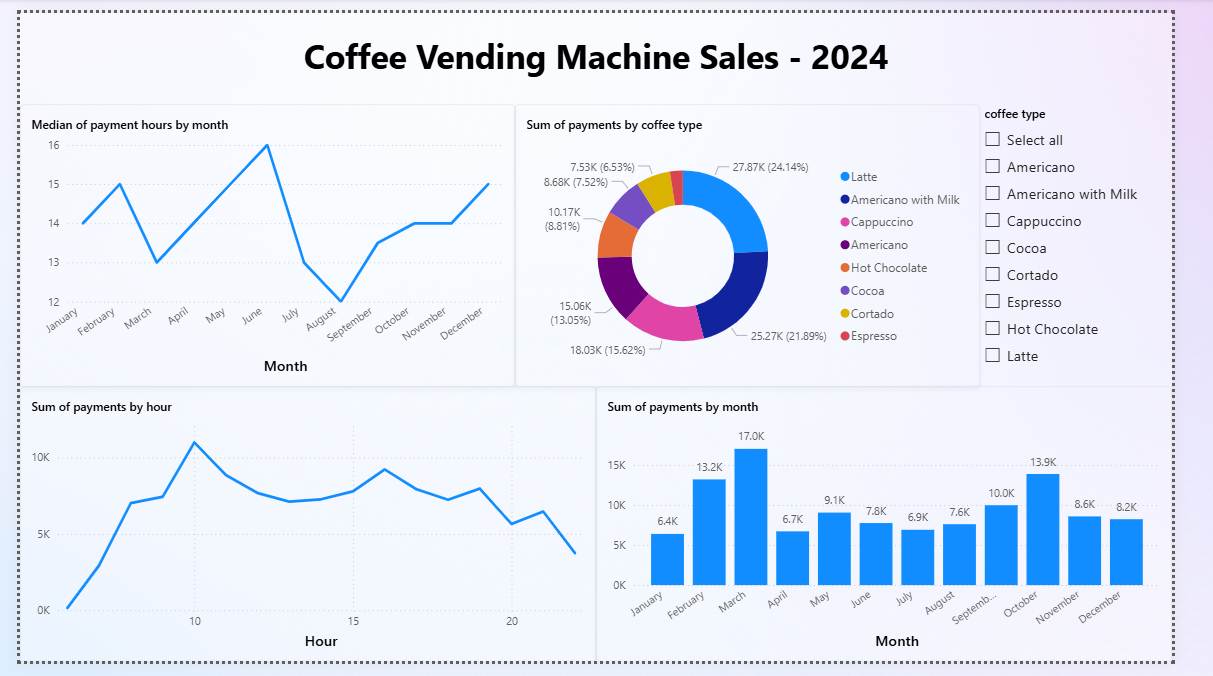
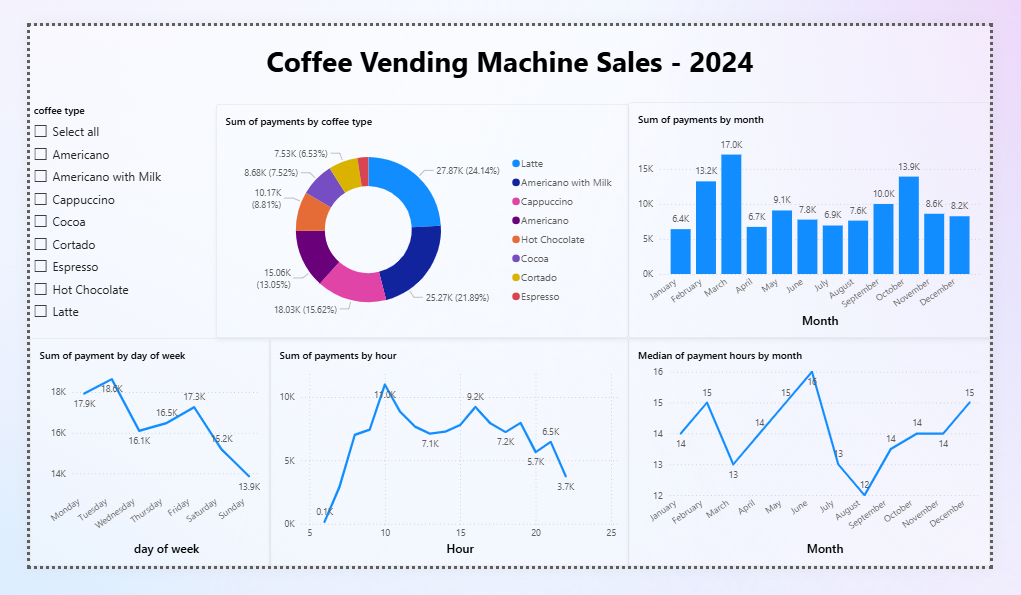
add weekdays analysis

diff --git a/README.md b/README.md
@@ -14,8 +14,9 @@ This project includes a Power BI report (`report.pbix`) for a coffee vending mac
 
 These are the business questions we are trying to respond to using this report:
 1. What are the most and least popular coffee drinks, and what are the most critical ingredients in the coffee vending machine?
-3. What is the best time to refill the vending machine? 
-4. What should our next marketing campaigns focus on?
+2. What is the best time to refill the vending machine? 
+3. What should our next marketing campaigns focus on?
+4. What days of week have the highest and lowest sales?
 
 ## Screenshots
 
@@ -24,6 +25,7 @@ The following is a screenshot of the report for all coffee types.
 <img src="screenshot-1.png" alt="all-coffee-report" width=700>
 
 The following is a screenshot of the report for espresso and americano only.
+
 
 <img src="screenshot-2.png" alt="espresso-americano-report" width=700>
 
@@ -58,6 +60,14 @@ It appears that overall, the median of payment time slots is highest in the warm
 Using the slicer, we can see that Americano is visibly more popular in February (late Winter) and March (early Spring).
 
 
+The following are the days of week with the highest sales:
+1. Tuesday (~18.6k sales)
+2. Monday (~17.9k sales)
+
+THe following are the days of week with the lowest sales:
+1. Sunday (~13.9k sales)
+2. Saturday (~15.2k sales)
+
 
 
 ## Insights and Recommendations
@@ -76,6 +86,10 @@ It's best to refill the vending machine between 11 pm and 6 am, which had zero s
 **3. What should our next marketing campaigns focus on?**
 
 It can be a good option to focus on increasing sales in the coldest and warmest months, where sales seem to be lower than in other months. We need to conduct surveys to better understand the reasons for the drop in sales during these months to increase the effectiveness of the marketing campaigns.
+
+**4. What days of week have the highest and lowest sales?**
+
+Tuesday (with ~18.6k sales) and Monday (with ~17.9k sales), the days in the beginning of the work week have the highest overall sales. Sunday (~13.9k sales and ~15.2k sales) have the lowest overall sales.
 
 
 